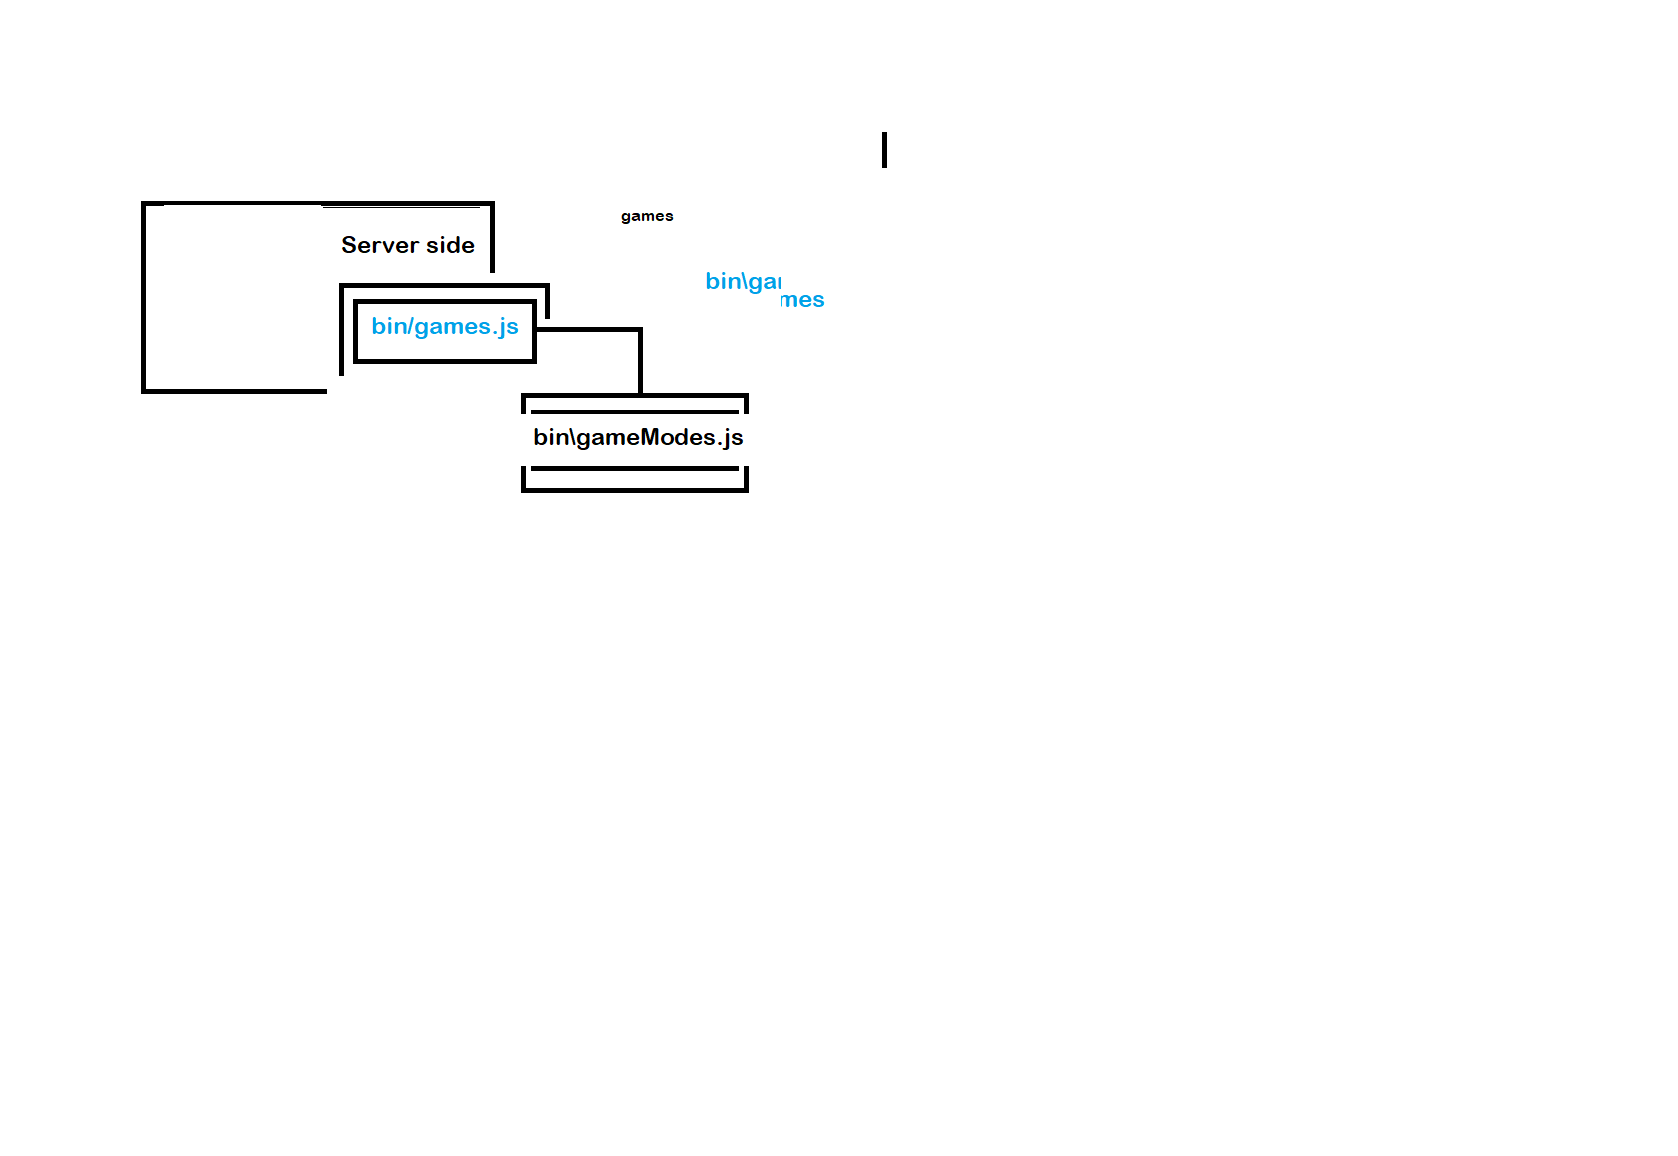
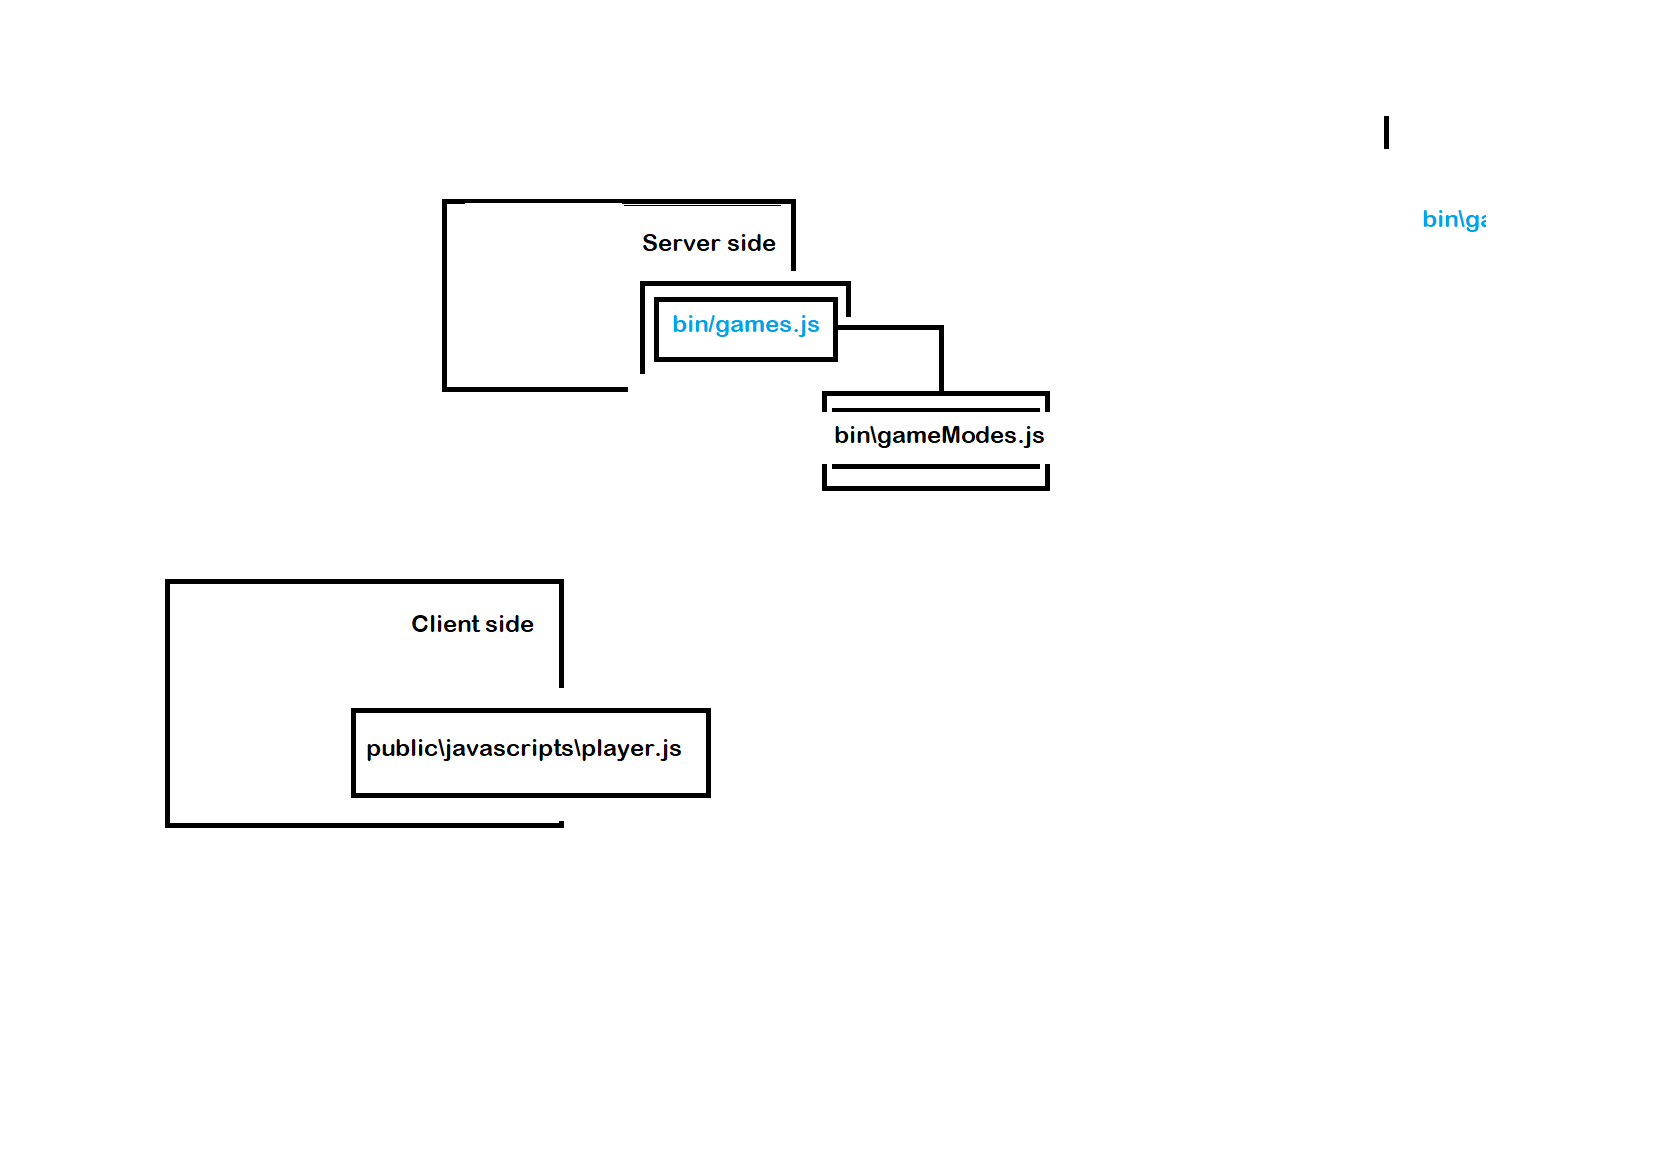
added viewport object on client side

diff --git a/public/javascripts/viewport.js b/public/javascripts/viewport.js
@@ -1,0 +1,50 @@
+/******************************************************************************
+ * title
+ * FranckEinstein90
+ * ----------------
+ *
+ * viewport draws on canvas
+ *
+ * ***************************************************************************/
+
+const viewport = (function() {
+
+    let _ctx = undefined,
+        width = 600,
+        height = 300,
+        backgroundColor = 'green',
+
+        drawBackground = function() {
+            _ctx.fillStyle = backgroundColor;
+            _ctx.fillRect(0, 0, width, height);
+        },
+
+        drawPlayer = function() {
+            _ctx.lineWidth = 3;
+            _ctx.moveTo(85, 100);
+            _ctx.lineTo(100, 50);
+            _ctx.lineTo(115, 100);
+            _ctx.closePath();
+            _ctx.stroke();
+        };
+
+    return {
+
+        elements: {
+            background: 1,
+            player: 2
+        }, //game objects
+
+        ctx: function(c) {
+            _ctx = c;
+        },
+
+        draw: function(target) {
+            if (target == viewport.elements.background) {
+                drawBackground();
+            } else if (target == viewport.elements.player) {
+                drawPlayer();
+            }
+        }
+    }
+})();

diff --git a/public/javascripts/main.js b/public/javascripts/main.js
@@ -6,7 +6,6 @@
 
 
 
-
 const gameVariables = (function(){
     let _FPS = 30, 
         _FRICTION = 0.7,
@@ -30,22 +29,28 @@ const gameVariables = (function(){
 const userCommands = ['<-','->','SPACE'];
 
 
+
+
 $( document ).ready(function(){
+
     const player = new players.Player();    
     const socket = io();
+
     socket.emit('new player', player);     
 
 
     /*****************************************************************
      * Game Objects
      *
-     * ***************************************************************
+     ****************************************************************/
 
     /** @type {htmlCanvasElement} */
     console.log("Start Game");
     let ctx = $("#gameCanvas")[0].getContext('2d');
-    ctx.fillStyle = 'green';
-    ctx.fillRect(10,10,150,100);
+    viewport.ctx(ctx);
+
+    viewport.draw(viewport.elements.background);
+    viewport.draw(viewport.elements.player); 
 
 });
 
